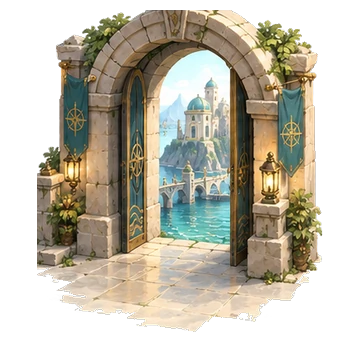
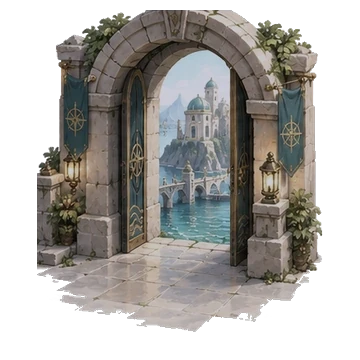
fix(v5): Observatory stage 2 differs from stage 3 (restored, lamps not yet lit)
Claude-Session: https://claude.ai/code/session_01TAHmUwn4kp7NVEG8e1ot8o

diff --git a/v5/assets/premium/coast/README.md b/v5/assets/premium/coast/README.md
@@ -87,7 +87,7 @@ redrawn; they are review art until production art replaces them):
 | File | From | How |
 |---|---|---|
 | `icons/gen-optic.webp`, `icons/optic-0…5.webp` | optics sheet (real alpha) | objects found as connected components of solid alpha; stray low-alpha specks outside each object's dilated mask dropped; 192 px like the other icons |
-| `place-obs-{hall,desk,bench,array,passage}-{1,2,3}.webp` | five-location sheet | background removed by flood fill from the borders through near-background and pale near-grey pixels; there, the ground shadow kept dark and partly transparent; largest solid component per cell; both rows share one 360 px canvas, bottom-aligned. Stage 1 = neglected row, stages 2 and 3 = restored row (stage 3 adds the CSS glow) |
+| `place-obs-{hall,desk,bench,array,passage}-{1,2,3}.webp` | five-location sheet | background removed by flood fill from the borders through near-background and pale near-grey pixels; there, the ground shadow kept dark and partly transparent; largest solid component per cell; both rows share one 360 px canvas, bottom-aligned. Stage 1 = neglected row; stage 2 = restored row before its lamps are lit (colour ×0.62, brightness ×0.8, a touch cooler); stage 3 = restored row (plus the CSS glow) |
 | `place-vault-door-1…3.webp` | vault triptych, panels 1–2 | the dial door cut as a circle (centre 288,362, r 150 of the 541 px panel); rings 1 and 1–2 lit with a tideglass glow; stage 3 is the open door |
 | `vault-door-sealed.webp`, `vault-door-open.webp` | vault triptych | the same circles, used by the Vault layer on the beach and worksite (replace Build 42's cut-outs from `entrance-vibrant` / `vault-open-vibrant`, whose open door was a cosmic portal) |
 | `vault-reveal-sealed.webp`, `vault-reveal-open.webp` | vault triptych, panels 1–2 | the reveal card's crossfade |

diff --git a/docs/V5_CHAPTER2_SILENT_OBSERVATORY_2026-10-24.md b/docs/V5_CHAPTER2_SILENT_OBSERVATORY_2026-10-24.md
@@ -70,8 +70,8 @@ adds the CSS glow); the door in three stages (rings lit, then open) and its Vaul
 crossfade; the Vault Entrance and Observatory pictures; the harbour view.
 
 **Still missing / placeholder:** painted crew portraits; a production Observatory map with places
-drawn for it (the concept interior is used, dimmed, with the cut-out places on top); intermediate
-place stages (stage 2 and 3 share the restored art); a larger harbour view (the current one is
+drawn for it (the concept interior is used, dimmed, with the cut-out places on top); painted
+intermediate place stages (stage 2 is the restored art, darkened, until real art exists); a larger harbour view (the current one is
 upscaled from a small crop); a Signal reader that does not read as a telescope; Survey Worksite
 places are still the Build 39 renders.
 
